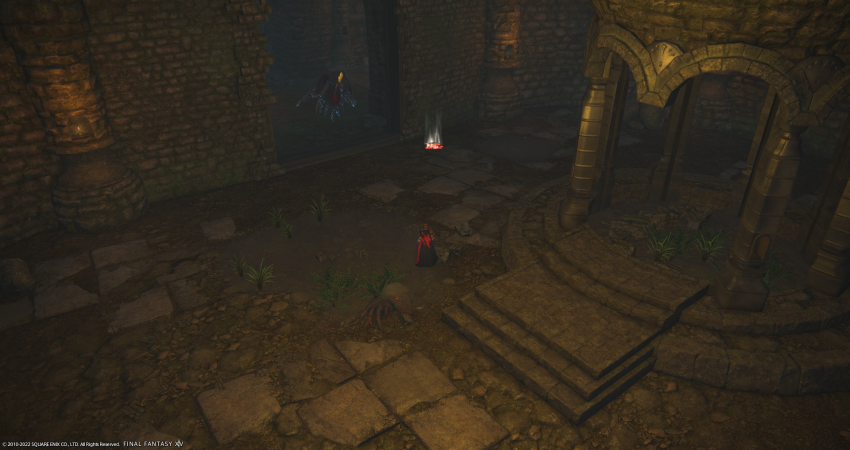
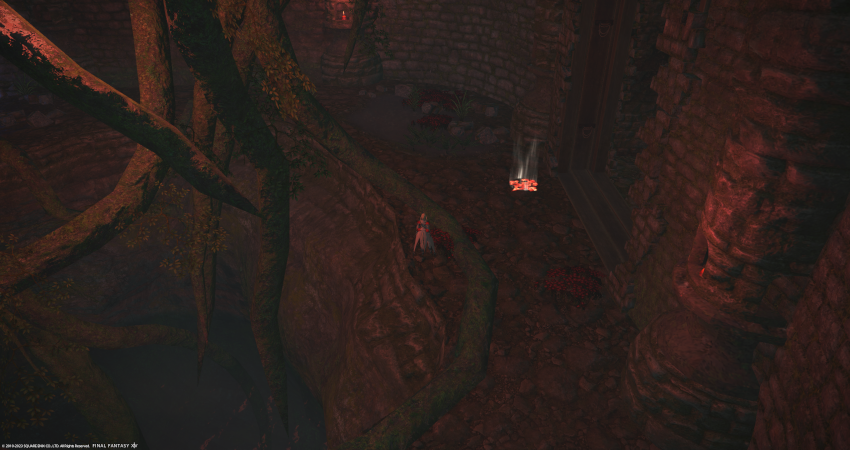
PotD 31+ wall traps (#50)

diff --git a/wall_traps.md b/wall_traps.md
@@ -99,15 +99,58 @@ title: Wall Traps
 
 <div class="surfacePane" markdown="1">
 
-* Donut room between the pillar and curved root in the south-west corner:
-  <br><img class="noteImage" src="{{ '/assets/images/wall_traps/potd_31_1.png' | relative_url }}">
-* West side of this gazebo room:
+* Donut room between the pillar and curved root in the south-west corner (can
+  spawn in 3 different positions around the pillar):
+  <br><img class="noteImage" src="{{ '/assets/images/wall_traps/potd_31_1-1.png' | relative_url }}">
+  <br><img class="noteImage" src="{{ '/assets/images/wall_traps/potd_31_1-2.png' | relative_url }}">
+* South wall of another donut room:
   <br><img class="noteImage" src="{{ '/assets/images/wall_traps/potd_31_2.png' | relative_url }}">
-* Under the broken fence on the south wall of this room:
+* East wall of the same donut room, when the wall is closed:
   <br><img class="noteImage" src="{{ '/assets/images/wall_traps/potd_31_3.png' | relative_url }}">
-* South-east corner of this empty room - not quite a wall trap, but will catch
-  you if you don't hug the wall tightly:
+* South wall of yet another donut room, when the wall is closed - technically
+  not a wall trap, but will catch you if you don't hug the wall perfectly:
   <br><img class="noteImage" src="{{ '/assets/images/wall_traps/potd_31_4.png' | relative_url }}">
+* West side of this gazebo room:
+  <br><img class="noteImage" src="{{ '/assets/images/wall_traps/potd_31_5.png' | relative_url }}">
+* South side of the same gazebo room, when the wall is closed:
+  <br><img class="noteImage" src="{{ '/assets/images/wall_traps/potd_31_6.png' | relative_url }}">
+* East side of the same gazebo room, when the wall is closed:
+  <br><img class="noteImage" src="{{ '/assets/images/wall_traps/potd_31_7.png' | relative_url }}">
+* South-west wall of another gazebo room (both corners):
+  <br><img class="noteImage" src="{{ '/assets/images/wall_traps/potd_31_8.png' | relative_url }}">
+  <br><img class="noteImage" src="{{ '/assets/images/wall_traps/potd_31_9.png' | relative_url }}">
+* Left side of the entrance to this dead-end room (south entrance):
+  <br><img class="noteImage" src="{{ '/assets/images/wall_traps/potd_31_10.png' | relative_url }}">
+* Left-hand pillar of this dead-end room (east entrance):
+  <br><img class="noteImage" src="{{ '/assets/images/wall_traps/potd_31_11.png' | relative_url }}">
+* Left side of the entrance to this dead-end room (east entrance) - technically
+  not a wall trap, but you have to jump onto the rocks to avoid it:
+  <br><img class="noteImage" src="{{ '/assets/images/wall_traps/potd_31_12.png' | relative_url }}">
+* Left side of the entrance to this dead-end room (east entrance):
+  <br><img class="noteImage" src="{{ '/assets/images/wall_traps/potd_31_13.png' | relative_url }}">
+* Under the broken fence on the south wall of this room:
+  <br><img class="noteImage" src="{{ '/assets/images/wall_traps/potd_31_14.png' | relative_url }}">
+* South-east corner of this room, when the wall is closed - also easy to
+  accidentally hit when the wall is open because of the curvature:
+  <br><img class="noteImage" src="{{ '/assets/images/wall_traps/potd_31_15.png' | relative_url }}">
+* North wall of this room:
+  <br><img class="noteImage" src="{{ '/assets/images/wall_traps/potd_31_16.png' | relative_url }}">
+* East wall of this room, when the wall is closed (2 locations):
+  <br><img class="noteImage" src="{{ '/assets/images/wall_traps/potd_31_17.png' | relative_url }}">
+  <br><img class="noteImage" src="{{ '/assets/images/wall_traps/potd_31_18.png' | relative_url }}">
+* South wall of the same room, when the wall is closed (shown here with the
+  wall open):
+  <br><img class="noteImage" src="{{ '/assets/images/wall_traps/potd_31_19.png' | relative_url }}">
+* East wall of this room, when the wall is closed:
+  <br><img class="noteImage" src="{{ '/assets/images/wall_traps/potd_31_20.png' | relative_url }}">
+* East wall of this room, when the wall is closed:
+  <br><img class="noteImage" src="{{ '/assets/images/wall_traps/potd_31_21.png' | relative_url }}">
+* South wall of this large room, when the wall is closed - also easy to
+  accidentally hit while turning to the left when entering:
+  <br><img class="noteImage" src="{{ '/assets/images/wall_traps/potd_31_22-1.png' | relative_url }}">
+  <br><img class="noteImage" src="{{ '/assets/images/wall_traps/potd_31_22-2.png' | relative_url }}">
+* East wall of the same room, when the wall is closed:
+  <br><img class="noteImage" src="{{ '/assets/images/wall_traps/potd_31_23.png' | relative_url }}">
 
 [Back to top](#top)
 </div>

diff --git a/_potd_floorsets/031.md b/_potd_floorsets/031.md
@@ -91,8 +91,8 @@ boss_job_specifics:
       - 'Easy with no pomanders'
 ---
 
-Nothing too exciting here. There are known
-[wall traps](/wall_traps.html#potd-31-49) that you can avoid.
+Nothing too exciting here, but there are lots of
+[wall traps](/wall_traps.html#potd-31-49) to watch out for.
 
 Pomanders of resolution and raising do not drop at all on this set. Affluence,
 flight, and alteration do not drop on floor 39.

diff --git a/_potd_floorsets/041.md b/_potd_floorsets/041.md
@@ -105,7 +105,7 @@ boss_job_specifics:
 ---
 
 Mimics on this set and beyond are immune to stun, and found in gold chests.
-There are known [wall traps](/wall_traps.html#potd-31-49) that you can avoid.
+There are lots of [wall traps](/wall_traps.html#potd-31-49) to watch out for.
 
 Pomanders of alteration, resolution, and raising do not drop at all on this
 set. Affluence and flight do not drop on floor 49.
